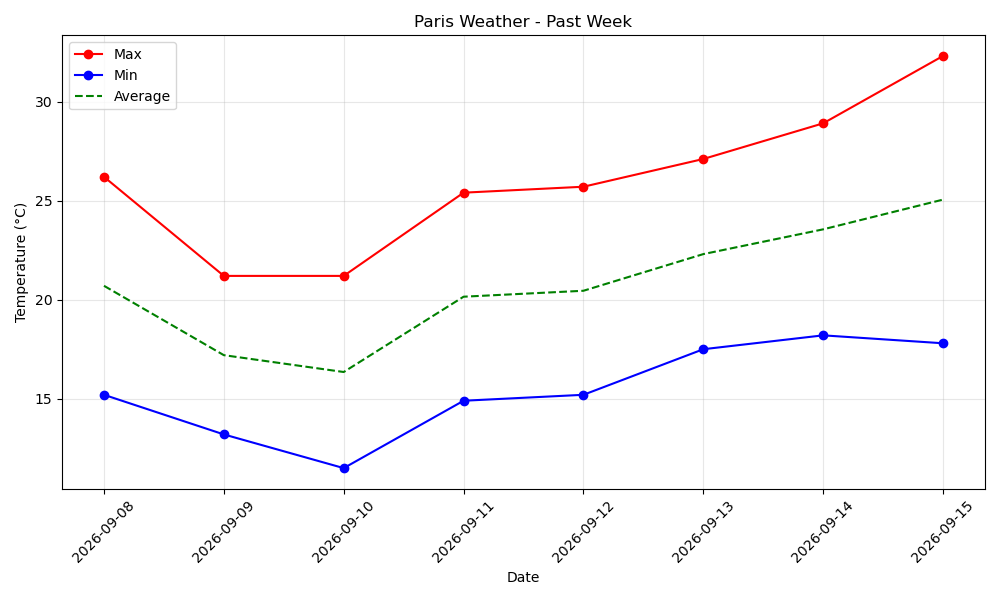
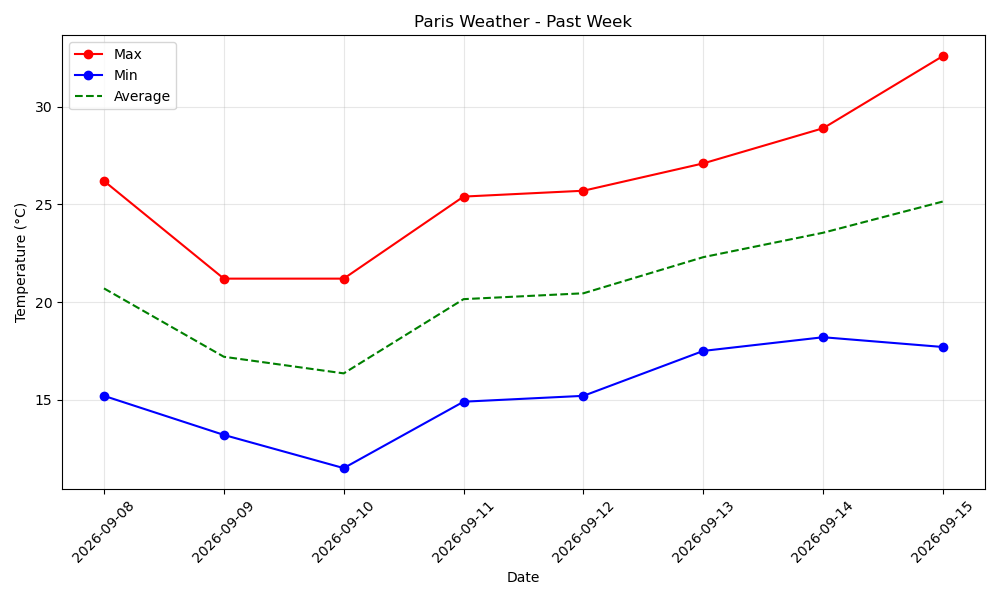
Learning file path

diff --git a/Python_for_AI/sales_analysis/output/analyser.py b/Python_for_AI/sales_analysis/output/analyser.py
@@ -4,7 +4,7 @@ import os
 print("Current directory:", os.getcwd())
 
 # Check if our data file exists
-data_path = "data/sales.csv"
+data_path = "../data/sales.csv"
 if os.path.exists(data_path):
     print(f"✅ Found {data_path}")
 else:
